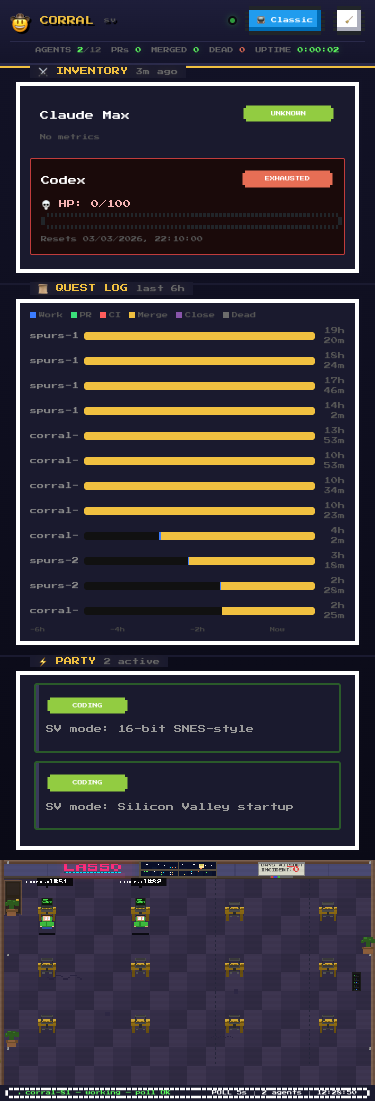
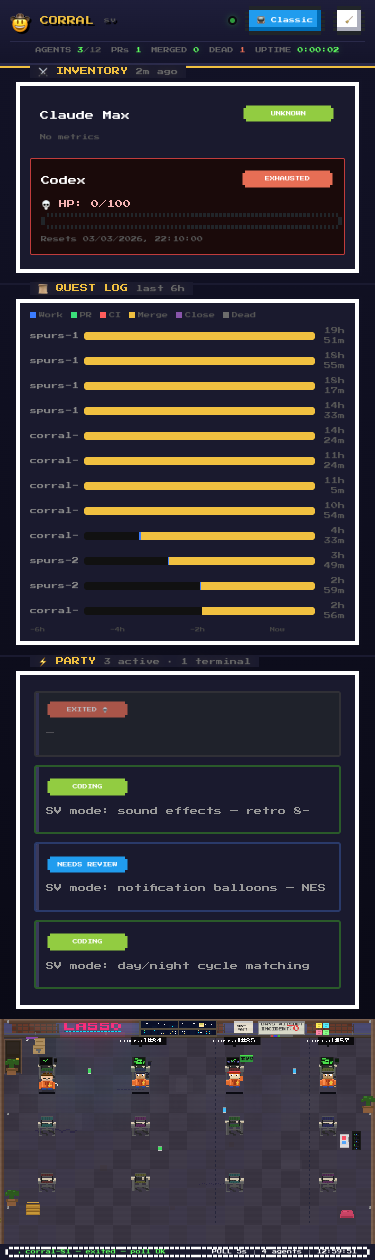
SV mode: day/night cycle matching real time (#87)
Add ambient time-based lighting to SV canvas scene using local time.
Dawn (6-8AM) and dusk (6-8PM) show warm orange tint with smooth
sine-curve transitions. Night (8PM-6AM) applies blue overlay with
enhanced neon sign glow, brighter ceiling lights, and monitor light
pools. Window reflects sky color changes with stars/moon at night.

diff --git a/sv.html b/sv.html
@@ -1368,6 +1368,48 @@ function detectNewAgents() {
 function R(x, y, w, h, color) { ctx.fillStyle = color; ctx.fillRect(x, y, w, h); }
 function tileRect(tx, ty, tw, th, color) { R(tx * S, ty * S, tw * S, th * S, color); }
 
+// === DAY/NIGHT CYCLE ===
+function getTimeOfDay() {
+  const now = new Date();
+  const h = now.getHours() + now.getMinutes() / 60;
+  // nightFactor: 0 = full day, 1 = full night
+  // Smooth sine-based transitions during dawn (6-8) and dusk (18-20)
+  let nightFactor;
+  if (h >= 8 && h < 18) {
+    nightFactor = 0; // day
+  } else if (h >= 20 || h < 6) {
+    nightFactor = 1; // night
+  } else if (h >= 6 && h < 8) {
+    // dawn: 1 → 0 over 2 hours
+    nightFactor = 0.5 + 0.5 * Math.cos((h - 6) / 2 * Math.PI);
+  } else {
+    // dusk (18-20): 0 → 1 over 2 hours
+    nightFactor = 0.5 - 0.5 * Math.cos((h - 18) / 2 * Math.PI);
+  }
+  // warmFactor peaks during dawn/dusk
+  let warmFactor = 0;
+  if (h >= 6 && h < 8) warmFactor = Math.sin((h - 6) / 2 * Math.PI);
+  else if (h >= 18 && h < 20) warmFactor = Math.sin((h - 18) / 2 * Math.PI);
+  return { nightFactor, warmFactor, hour: h };
+}
+
+function drawDayNightOverlay() {
+  const { nightFactor, warmFactor } = getTimeOfDay();
+  if (nightFactor <= 0 && warmFactor <= 0) return;
+  ctx.save();
+  // Night blue overlay
+  if (nightFactor > 0) {
+    ctx.fillStyle = 'rgba(10,10,40,' + (0.3 * nightFactor).toFixed(3) + ')';
+    ctx.fillRect(0, 0, COLS * TILE * SCALE, ROWS * TILE * SCALE);
+  }
+  // Dawn/dusk warm overlay
+  if (warmFactor > 0) {
+    ctx.fillStyle = 'rgba(255,160,50,' + (0.1 * warmFactor).toFixed(3) + ')';
+    ctx.fillRect(0, 0, COLS * TILE * SCALE, ROWS * TILE * SCALE);
+  }
+  ctx.restore();
+}
+
 function drawFloor() {
   for (let r = 0; r < ROWS; r++)
     for (let c = 0; c < COLS; c++) {
@@ -1410,21 +1452,48 @@ function drawGarageFrame() {
 function drawWindow() {
   ctx.save(); ctx.scale(SCALE, SCALE);
   const x = 120, y = 2, w = 64, h = 12;
-  R(x, y, w, h, '#0a1029');
+  const { nightFactor, warmFactor, hour } = getTimeOfDay();
+  // Sky color: lerp between day blue and night dark
+  const skyR = Math.round(10 + (1 - nightFactor) * 60 + warmFactor * 80);
+  const skyG = Math.round(16 + (1 - nightFactor) * 80 + warmFactor * 40);
+  const skyB = Math.round(41 + (1 - nightFactor) * 100);
+  const skyColor = 'rgb(' + Math.min(skyR,255) + ',' + Math.min(skyG,255) + ',' + Math.min(skyB,255) + ')';
+  R(x, y, w, h, skyColor);
+  // Building silhouette color: darker at night, slightly lighter during day
+  const bldR = Math.round(12 + (1 - nightFactor) * 30);
+  const bldG = Math.round(21 + (1 - nightFactor) * 30);
+  const bldB = Math.round(48 + (1 - nightFactor) * 30);
+  const bldColor = 'rgb(' + bldR + ',' + bldG + ',' + bldB + ')';
   const buildings = [[x+2,y+6,6,6],[x+10,y+4,4,8],[x+16,y+7,5,5],[x+24,y+3,8,9],[x+34,y+5,6,7],[x+42,y+6,4,6],[x+48,y+4,5,8],[x+55,y+7,6,5]];
+  // Building window lights: more visible at night
+  const windowChance = 0.3 + nightFactor * 0.4;
   buildings.forEach(([bx,by,bw,bh]) => {
-    ctx.fillStyle = '#0c1530'; ctx.fillRect(bx, by, bw, bh);
+    ctx.fillStyle = bldColor; ctx.fillRect(bx, by, bw, bh);
     for (let wx = bx + 1; wx < bx + bw - 1; wx += 2)
       for (let wy = by + 1; wy < by + bh - 1; wy += 2)
-        if (Math.random() > 0.5) {
+        if (Math.random() > (1 - windowChance)) {
           ctx.fillStyle = ['#f0d060','#5dfc5d','#00e5ff','#ff8844','#fff'][Math.floor(Math.random()*5)];
           ctx.fillRect(wx, wy, 1, 1);
         }
   });
-  ctx.fillStyle = '#fff';
-  [[x+5,y+1],[x+20,y+2],[x+45,y+1],[x+55,y+2],[x+35,y+1],[x+15,y+1],[x+60,y+2]].forEach(([sx,sy]) => ctx.fillRect(sx, sy, 1, 1));
-  ctx.fillStyle = '#ffe39a'; ctx.fillRect(x+50, y+1, 4, 4);
-  ctx.fillStyle = '#d8d060'; ctx.fillRect(x+51, y+1, 2, 2);
+  // Stars: only visible at night
+  if (nightFactor > 0.3) {
+    ctx.fillStyle = 'rgba(255,255,255,' + (nightFactor * 0.8).toFixed(2) + ')';
+    [[x+5,y+1],[x+20,y+2],[x+45,y+1],[x+55,y+2],[x+35,y+1],[x+15,y+1],[x+60,y+2]].forEach(([sx,sy]) => ctx.fillRect(sx, sy, 1, 1));
+  }
+  // Moon/sun
+  if (nightFactor > 0.3) {
+    // Moon at night
+    ctx.fillStyle = 'rgba(255,240,200,' + (nightFactor * 0.9).toFixed(2) + ')';
+    ctx.fillRect(x+50, y+1, 4, 4);
+    ctx.fillStyle = 'rgba(220,210,160,' + (nightFactor * 0.7).toFixed(2) + ')';
+    ctx.fillRect(x+51, y+1, 2, 2);
+  } else {
+    // Sun during day
+    ctx.fillStyle = '#ffe39a'; ctx.fillRect(x+50, y+1, 4, 4);
+    ctx.fillStyle = '#d8d060'; ctx.fillRect(x+51, y+1, 2, 2);
+  }
+  // Window frame
   ctx.fillStyle = '#5a5040';
   ctx.fillRect(x-1, y-1, w+2, 1); ctx.fillRect(x-1, y+h, w+2, 1);
   ctx.fillRect(x-1, y-1, 1, h+2); ctx.fillRect(x+w, y-1, 1, h+2);
@@ -1445,7 +1514,11 @@ function drawDoor() {
 function drawNeonSign() {
   ctx.save(); ctx.scale(SCALE, SCALE);
   const nx = 55, ny = 3;
-  for (let r = 8; r > 0; r -= 2) R(nx-r, ny-r, 56+r*2, 10+r*2, `rgba(255,45,123,${0.008 * (8-r)})`);
+  const { nightFactor } = getTimeOfDay();
+  // Glow radius and intensity increase at night
+  const glowMult = 1 + nightFactor * 1.5;
+  const maxR = Math.round(8 * glowMult);
+  for (let r = maxR; r > 0; r -= 2) R(nx-r, ny-r, 56+r*2, 10+r*2, 'rgba(255,45,123,' + (0.008 * glowMult * (maxR-r) / maxR * 8).toFixed(4) + ')');
   const L = [[0,0],[0,1],[0,2],[0,3],[0,4],[0,5],[1,5],[2,5],[3,5]];
   const A = [[5,1],[5,2],[5,3],[5,4],[5,5],[6,0],[7,0],[8,0],[8,1],[8,2],[8,3],[8,4],[8,5],[6,3],[7,3]];
   const S1 = [[10,0],[11,0],[12,0],[13,0],[10,1],[10,2],[11,2],[12,2],[13,2],[13,3],[13,4],[10,5],[11,5],[12,5],[13,5],[10,4]];
@@ -1454,7 +1527,9 @@ function drawNeonSign() {
   [L, A, S1, S2, O].forEach(letter => { letter.forEach(([lx, ly]) => R(nx+lx*2, ny+ly, 2, 1, PAL.neonPink)); });
   R(nx, ny+7, 48, 1, PAL.neonCyan);
   for (let i = 0; i < 48; i += 3) R(nx+i, ny+7, 1, 1, '#005a6a');
-  R(nx-4, ny+8, 56, 4, PAL.neonPinkGlow);
+  // Stronger underglow at night
+  const underGlowAlpha = (0.12 + nightFactor * 0.15).toFixed(3);
+  R(nx-4, ny+8, 56, 4, 'rgba(255,45,123,' + underGlowAlpha + ')');
   ctx.restore();
 }
 
@@ -1940,15 +2015,17 @@ function drawWallsSV() {
   for (let x = 0; x < COLS * TILE; x += 30) {
     ctx.fillRect(x, TILE - 5, 1, 3); // conduit brackets
   }
-  // Fluorescent light strips on ceiling
+  // Fluorescent light strips on ceiling — brighter at night
+  const { nightFactor: wallNF } = getTimeOfDay();
+  const flourGlowAlpha = (0.06 + wallNF * 0.12).toFixed(3);
   for (let i = 0; i < 4; i++) {
     const lx = 30 + i * 70, ly = 0;
     ctx.fillStyle = PAL.svFluor;
     ctx.fillRect(lx, ly, 30, 2);
-    ctx.fillStyle = '#fff';
+    ctx.fillStyle = wallNF > 0.3 ? 'rgba(255,255,255,' + (0.8 + wallNF * 0.2).toFixed(2) + ')' : '#fff';
     ctx.fillRect(lx + 2, ly, 26, 1);
     // Glow below
-    ctx.fillStyle = PAL.svFluorGlow;
+    ctx.fillStyle = 'rgba(200,232,255,' + flourGlowAlpha + ')';
     ctx.fillRect(lx - 4, ly + 2, 38, 8);
   }
   ctx.restore();
@@ -2197,25 +2274,55 @@ function drawPropsSV() {
 }
 
 function drawLightingSV() {
-  // Neon sign extended glow on nearby walls/floor
+  const { nightFactor } = getTimeOfDay();
+  // Neon sign extended glow on nearby walls/floor — stronger at night
   const neonCX = (55 + 24) * SCALE;
   const neonCY = 5 * SCALE;
+  const neonAlpha1 = (0.07 + nightFactor * 0.08).toFixed(3);
+  const neonAlpha2 = (0.03 + nightFactor * 0.04).toFixed(3);
   const neonGrad = ctx.createRadialGradient(neonCX, neonCY, 10, neonCX, neonCY + 80, 140);
-  neonGrad.addColorStop(0, 'rgba(255,45,123,0.07)');
-  neonGrad.addColorStop(0.5, 'rgba(0,229,255,0.03)');
+  neonGrad.addColorStop(0, 'rgba(255,45,123,' + neonAlpha1 + ')');
+  neonGrad.addColorStop(0.5, 'rgba(0,229,255,' + neonAlpha2 + ')');
   neonGrad.addColorStop(1, 'rgba(0,0,0,0)');
   ctx.fillStyle = neonGrad;
   ctx.fillRect(neonCX - 140, neonCY - 10, 280, 200);
 
-  // Fluorescent ceiling light glow pools on floor
+  // Fluorescent ceiling light glow pools on floor — brighter at night
+  const ceilAlpha = (0.04 + nightFactor * 0.08).toFixed(3);
   for (let i = 0; i < 4; i++) {
     const lx = (30 + i * 70 + 15) * SCALE;
     const ly = 3 * S;
     const flGrad = ctx.createRadialGradient(lx, ly, 5, lx, ly + 40, 80);
-    flGrad.addColorStop(0, 'rgba(200,232,255,0.04)');
+    flGrad.addColorStop(0, 'rgba(200,232,255,' + ceilAlpha + ')');
     flGrad.addColorStop(1, 'rgba(200,232,255,0)');
     ctx.fillStyle = flGrad;
     ctx.fillRect(lx - 80, ly, 160, 100);
+  }
+
+  // Night: draw visible ceiling light rectangles
+  if (nightFactor > 0.2) {
+    ctx.save(); ctx.scale(SCALE, SCALE);
+    const lightAlpha = (nightFactor * 0.6).toFixed(3);
+    ctx.fillStyle = 'rgba(220,240,255,' + lightAlpha + ')';
+    for (let i = 0; i < 4; i++) {
+      const lx = 30 + i * 70;
+      ctx.fillRect(lx + 4, 0, 22, 2);
+    }
+    ctx.restore();
+  }
+
+  // Night: monitor screens cast visible light pools on nearby floor
+  if (nightFactor > 0.2) {
+    const monGlowAlpha = (nightFactor * 0.05).toFixed(3);
+    DESKS.forEach(d => {
+      const mx = (d.x * TILE + 6) * SCALE;
+      const my = (d.y * TILE + 10) * SCALE;
+      const mGrad = ctx.createRadialGradient(mx, my, 2, mx, my + 20, 40);
+      mGrad.addColorStop(0, 'rgba(74,224,74,' + monGlowAlpha + ')');
+      mGrad.addColorStop(1, 'rgba(74,224,74,0)');
+      ctx.fillStyle = mGrad;
+      ctx.fillRect(mx - 40, my - 5, 80, 50);
+    });
   }
 }
 
@@ -2315,6 +2422,9 @@ function render() {
   drawTumbleweed();
   drawPlant(0, 2); drawPlant(0, 9); drawPlant(COLS - 1, 4);
   drawServerRack((COLS - 1) * TILE - 4, 6 * TILE);
+
+  // Day/night overlay — applied last, over entire scene
+  drawDayNightOverlay();
 
   requestAnimationFrame(render);
 }
